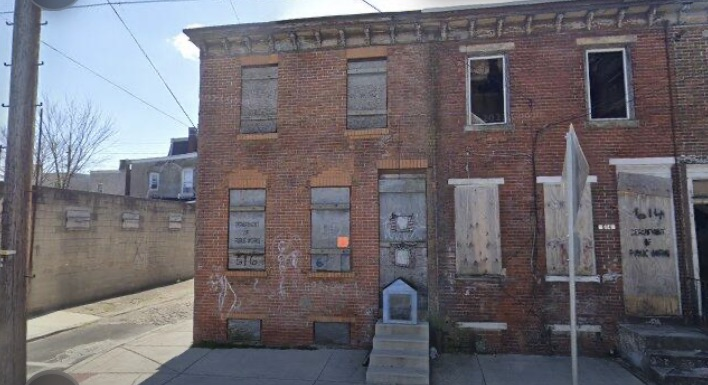
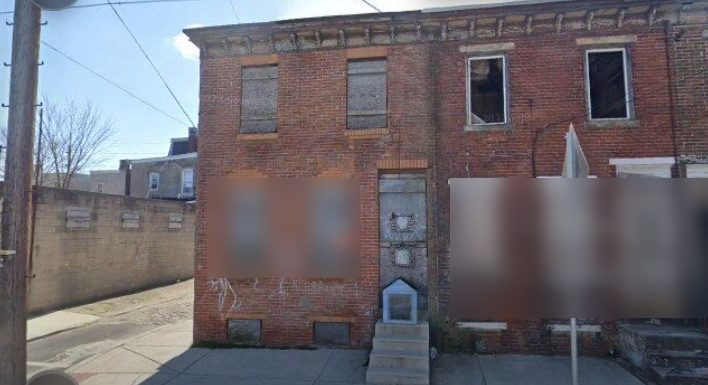
Remove expired Philadelphia deal and hide Camden house numbers
The Philadelphia tax sale was scheduled for Nov 18. Drops its card and the
"Houses from $1,600" headline, replaces "this week" with mid-November, and
says assessed values and opening bids are not asking prices. Blurs house
numbers visible in the Camden photo.

Changed region(s): [[0.6215, 0.4364, 1.0, 0.8416], [0.3107, 0.4675, 0.4972, 0.7169]]

diff --git a/index.html b/index.html
@@ -352,12 +352,10 @@ section{border-top-color:var(--line)}
 
   <!-- LOCKED TEASER: real deals from the platform (Nov 18 2026) -->
   <section>
-    <div class="label">Found by Tranchi this week</div>
-    <h2>Houses from <span class="gold">$1,600</span></h2>
-    <p class="note" style="margin:-8px 0 14px">Real deals the AI pulled this week. Start with on-market deals in Pro, then upgrade to unlock these. Swipe →</p>
+    <div class="label">Found by Tranchi in mid-November</div>
+    <h2>Real houses. <span class="gold">Real numbers.</span></h2>
+    <p class="note" style="margin:-8px 0 14px">Examples the AI flagged. Some may be gone. Start with on-market deals in Pro, then upgrade to unlock deals like these. Swipe →</p>
     <div class="rd-row">
-      <div class="rd"><div class="rd-img" style="background-image:url('tranchi-deal-photos/philly.jpg')"><span class="rd-type">Tax sale</span><span class="rd-lock">Upgrade</span></div>
-        <div class="rd-b"><small>Opening bid</small><div class="rd-p">$1,600</div><div class="rd-v">Est. value <b>$151,588</b></div><div class="rd-c">Philadelphia, PA</div></div></div>
       <div class="rd"><div class="rd-img" style="background-image:url('tranchi-deal-photos/peoria.jpg')"><span class="rd-type">Pre-foreclosure</span><span class="rd-lock">Upgrade</span></div>
         <div class="rd-b"><small>Assessed value</small><div class="rd-p">$13,650</div><div class="rd-v">Est. value <b>$64,266</b></div><div class="rd-c">Peoria, IL · 5 bd · vacant</div></div></div>
       <div class="rd"><div class="rd-img" style="background-image:url('tranchi-deal-photos/syracuse.jpg')"><span class="rd-type">Auction</span><span class="rd-lock">Upgrade</span></div>
@@ -373,7 +371,7 @@ section{border-top-color:var(--line)}
       <div class="rd"><div class="rd-img" style="background-image:url('tranchi-deal-photos/detroit-richton.jpg')"><span class="rd-type">Pre-foreclosure</span><span class="rd-lock">Upgrade</span></div>
         <div class="rd-b"><small>Assessed value</small><div class="rd-p">$24,000</div><div class="rd-v">Est. value <b>$97,682</b></div><div class="rd-c">Detroit, MI · 4 bd · notice of default</div></div></div>
     </div>
-    <p class="note">Pro includes on-market deals (stale, expired, FSBO, turnkey, value add). Pre-foreclosures, tax deeds and auctions unlock when you upgrade. Addresses unlock inside.</p>
+    <p class="note">Pro includes on-market deals (stale, expired, FSBO, turnkey, value add). Pre-foreclosures, tax deeds and auctions unlock when you upgrade. Assessed values, opening bids and tax amounts are not asking prices. Addresses unlock inside.</p>
   </section>
 
   <!-- PROOF: real Tranchi members (videos and quotes from tranchi.ai's testimonials, Nov 18 2026) -->
